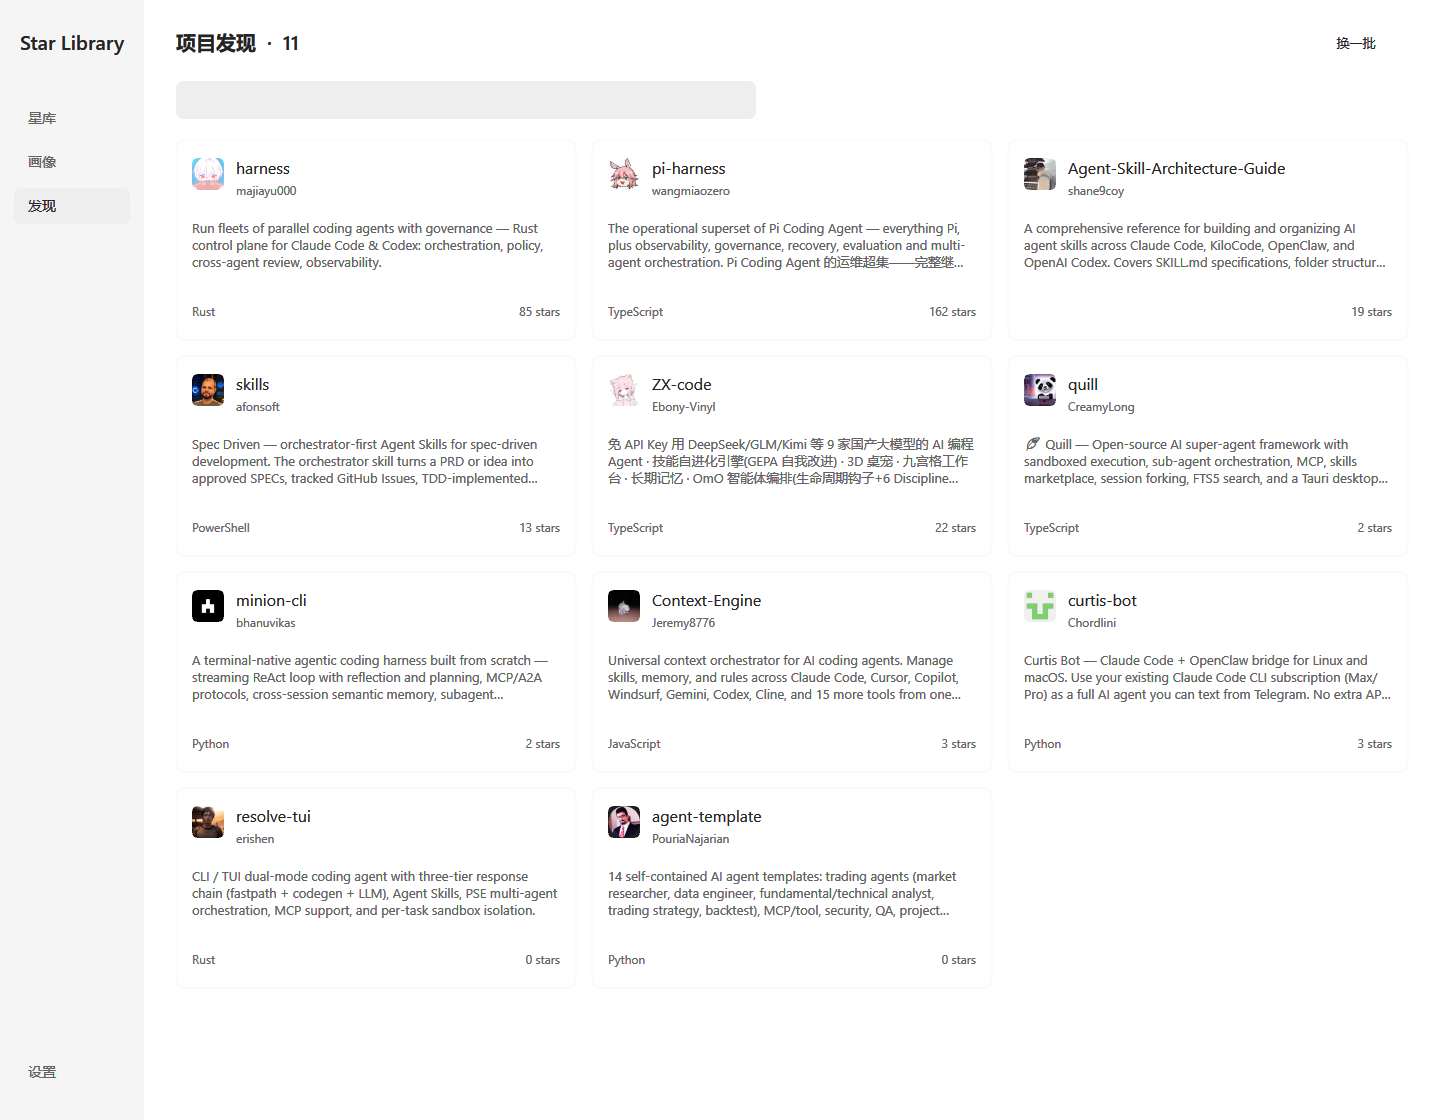
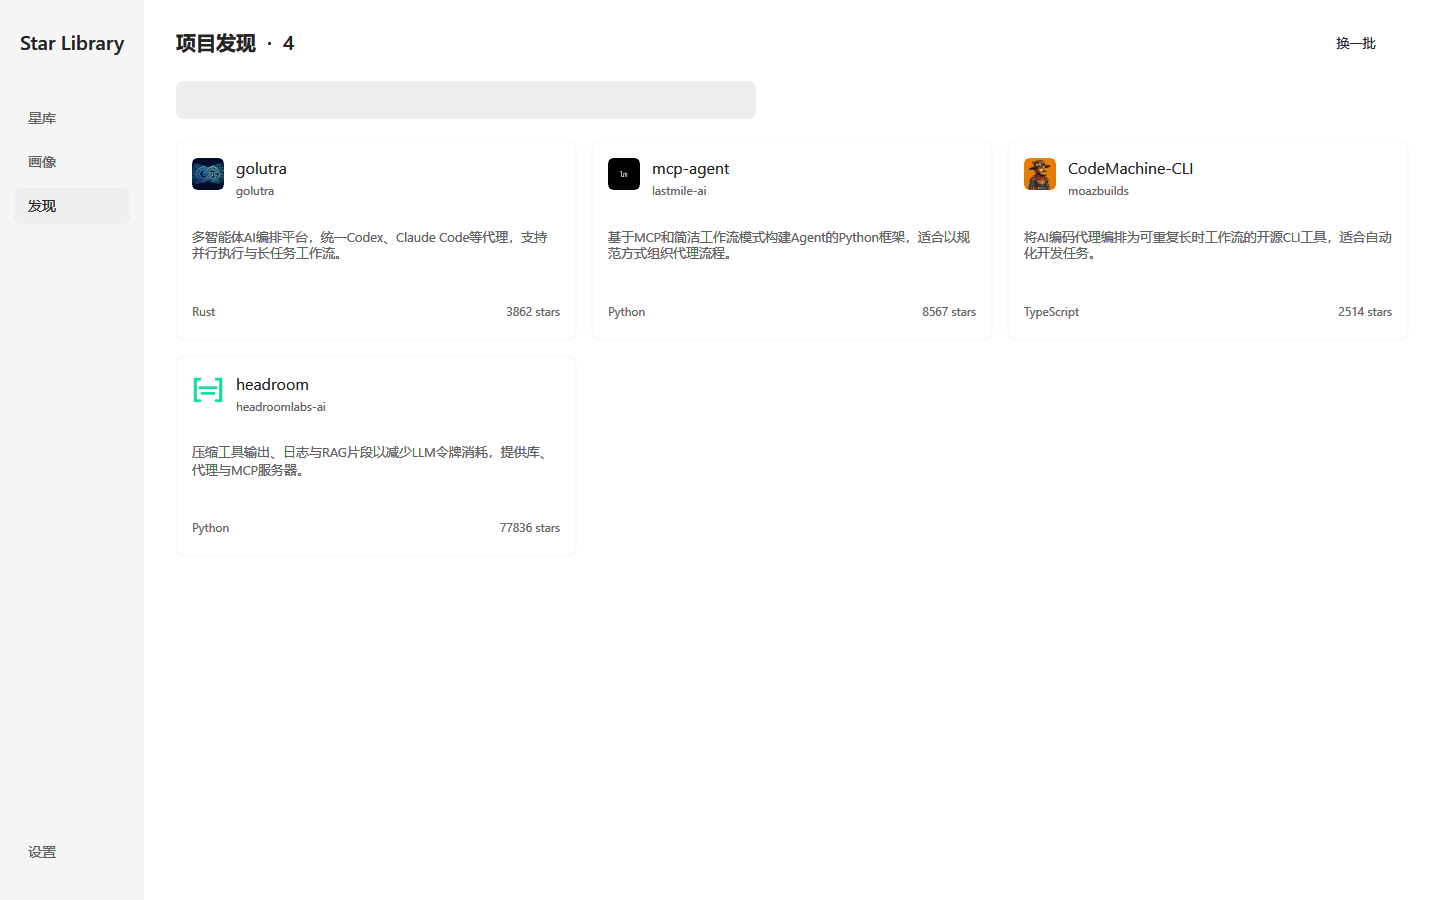
StarLibrary: publish real discovery screenshots
补齐真实 AI 工具推荐截图，同步更新对外介绍

【提交类型】
文档更新 - 项目截图与宣传资料

【问题描述】
发现页仍展示旧结果，无法反映当前推荐和真实头像。

【原因分析】
1. 直接原因：等待用户手动生成新推荐后再更新截图。
2. 根本原因：实际结果未确认前不能用演示数据替代。

【修改方案】
以用户确认的真实数据拍摄三页，替换截图并核对头像。

【影响评估】
影响轻微，仅涉及图片与说明，不改变程序行为。

【兼容性分析】
保留页面地址与用户数据，继续使用 0.0.8 程序。

【需要同时入库的提交】
无

【自测结果】
1. 三页截图与实际数据核对通过，无凭据或私有仓库。
2. 四个真实 AI 工具推荐的头像与中文概括展示正常。
3. 相关测试通过，自测通过

diff --git a/docs/validation-0.0.8.md b/docs/validation-0.0.8.md
@@ -12,4 +12,10 @@
 
 新增模拟覆盖：自己的仓库已 Star 时零写请求；尚未 Star 时一次写入；查询权限不足、实际写权限不足、查询后取消时均保留数据；已经 Unstar 时也不重复删除。
 
-所有自动检查均使用隔离数据和模拟接口，不读取真实应用凭据、不调用真实模型、不实际修改 GitHub Stars。本地正式 exe 已替换，运行中的旧进程需要退出后重新打开。新版发现截图仍等待用户手动生成实际推荐，不使用演示数据替代。
+所有自动检查均使用隔离数据和模拟接口，不读取真实应用凭据、不调用真实模型、不实际修改 GitHub Stars。本地正式 exe 已替换，运行中的旧进程需要退出后重新打开。
+
+## 真实截图补充
+
+2026-10-26，用户在 0.0.8 中手动完成“换一批”并确认正常。以其保存数据的隔离快照重新拍摄星库、画像与发现三页，未复制凭据文件，未修改正式数据。核对本次四个真实推荐均超过 100 Stars，所属账号头像正常，中文概括与实际保存内容一致；不补造六项或拓展推荐。
+
+新版图片同步用于 README、个人网站与小众软件草稿。画像页保留真实的“收藏线索有变化，可更新画像”提示，未为了截图修改状态或叙事。

diff --git a/docs/appinn-share.md b/docs/appinn-share.md
@@ -2,6 +2,8 @@
 
 已按小众软件的[内容提交规则](https://meta.appinn.net/t/topic/43728)和[发现频道模板](https://meta.appinn.net/t/topic/77583)整理。下方为待发布草稿，尚未代发。使用开发者身份，注明模型服务可能收费、GitHub Token 前提，保留官方直链。发帖时可将真实运行图直接上传到论坛。
 
+三张配图已更新为 0.0.8 的真实运行截图。发现页来自手动“换一批”后保存的四个 AI 工具推荐，包含真实 GitHub 头像，未使用演示数据。
+
 标题建议：**〖开发者自荐〗Star Library：300 多 KB 的 GitHub Stars 管理器，带 AI 整理与兴趣画像**
 
 ---
@@ -45,7 +47,7 @@ Windows 10 / 11，x64，中文界面。
 
 ![兴趣画像](https://raw.githubusercontent.com/liuminxin45/star-library/main/docs/images/profile.png)
 
-![项目发现](https://raw.githubusercontent.com/liuminxin45/star-library/main/docs/images/discovery.png)
+![真实画像生成的 AI 工具推荐](https://raw.githubusercontent.com/liuminxin45/star-library/main/docs/images/discovery.png)
 
 目前是早期版本，欢迎反馈具体使用问题。
 

diff --git a/README.md b/README.md
@@ -19,7 +19,7 @@ GitHub 同步和 Star / Unstar 需要 Token。AI 使用自行配置的 Chat Comp
 
 ![真实兴趣画像](docs/images/profile.png)
 
-![真实项目发现](docs/images/discovery.png)
+![真实画像驱动的项目发现，含中文概括与 GitHub 头像](docs/images/discovery.png)
 
 ## 构建
 
